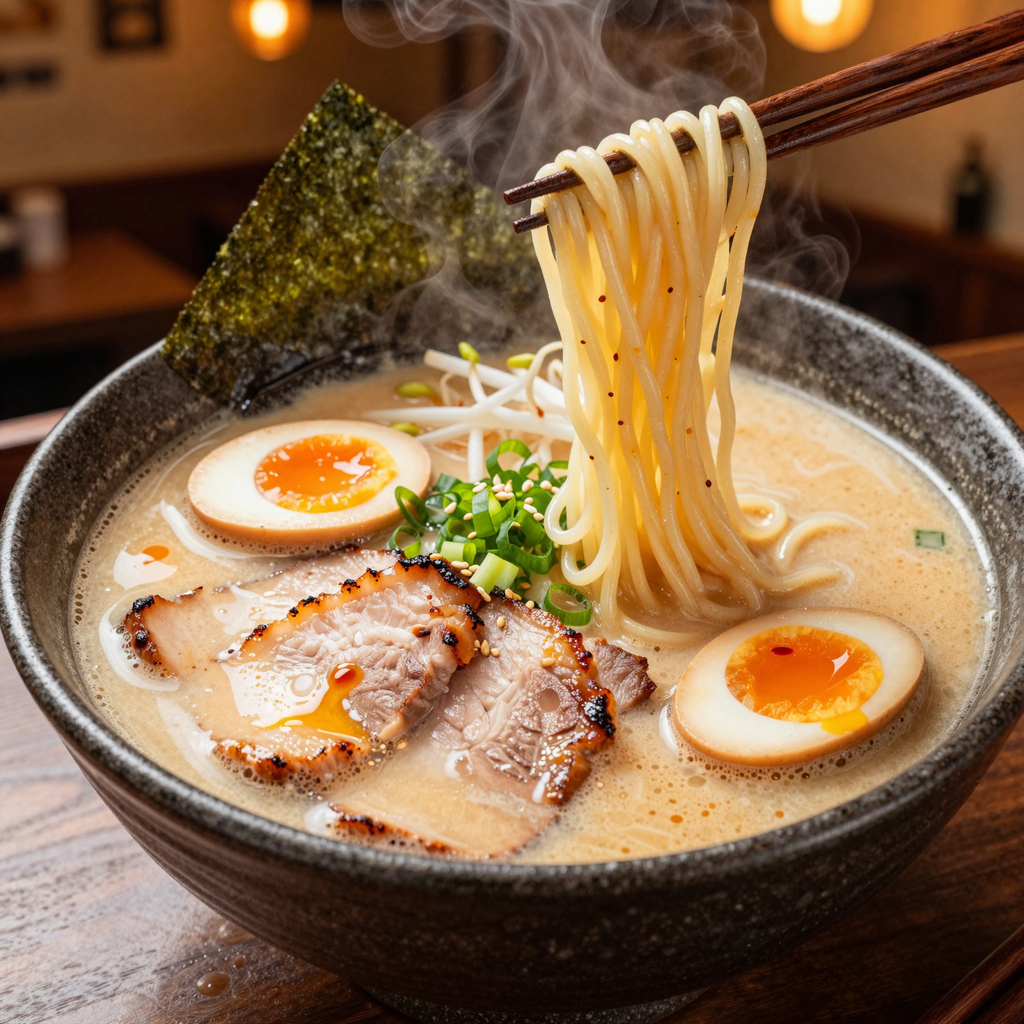
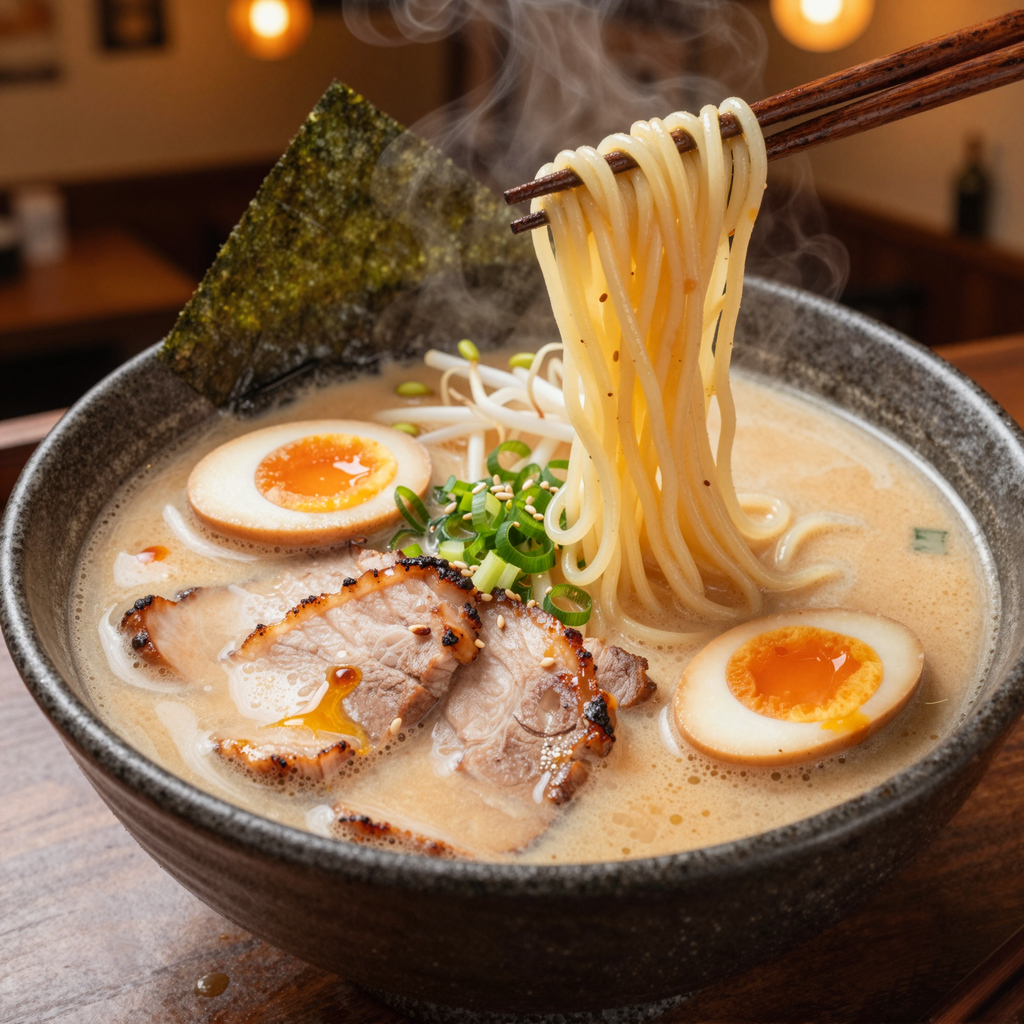
v8: v7's ramen through a 2048 px Z-Image hi-res detail pass (img2img 0.3), cropped, downsampled

diff --git a/render/hires_zimage.py b/render/hires_zimage.py
@@ -1,0 +1,74 @@
+"""Hi-res detail pass: upscale a chosen Z-Image candidate to 2048 px and re-denoise it lightly with Z-Image-Turbo
+img2img, so fine texture (noodle strands, fat, sesame, steam) is re-drawn at a higher resolution; finish.py then
+downsamples it to 1024. The judge kept docking "slightly uniform, plasticky" surfaces.
+
+    python render/hires_zimage.py --base <Z-Image-Turbo folder> --gguf <q8 gguf> --dish ramen4 --style izakaya
+                                  --strength 0.3 --seed 1 in.png out.png
+"""
+import argparse
+import gc
+
+import torch
+from accelerate import cpu_offload
+from diffusers import GGUFQuantizationConfig, ZImageImg2ImgPipeline, ZImageTransformer2DModel
+from PIL import Image
+
+from prompts import DISHES, STYLES
+
+
+def main() -> None:
+    ap = argparse.ArgumentParser()
+    ap.add_argument("--base", required=True)
+    ap.add_argument("--gguf", required=True)
+    ap.add_argument("--dish", required=True)
+    ap.add_argument("--style", default="izakaya", choices=sorted(STYLES))
+    ap.add_argument("--strength", type=float, default=0.3)
+    ap.add_argument("--steps", type=int, default=9)
+    ap.add_argument("--size", type=int, default=2048)
+    ap.add_argument("--seed", type=int, default=1)
+    ap.add_argument("src")
+    ap.add_argument("dst")
+    args = ap.parse_args()
+
+    pipe = ZImageImg2ImgPipeline.from_pretrained(args.base, transformer=None, torch_dtype=torch.bfloat16)
+    cpu_offload(pipe.text_encoder, execution_device=torch.device("cuda"))
+    with torch.no_grad():
+        pe, _ = pipe.encode_prompt(
+            prompt=f"{DISHES[args.dish]} {STYLES[args.style]}", device="cuda", do_classifier_free_guidance=False
+        )
+    pe = [e.cpu() for e in pe]
+    pipe.text_encoder = None
+    gc.collect()
+    torch.cuda.empty_cache()
+
+    pipe.transformer = ZImageTransformer2DModel.from_single_file(
+        args.gguf,
+        quantization_config=GGUFQuantizationConfig(compute_dtype=torch.bfloat16),
+        config=args.base,
+        subfolder="transformer",
+        torch_dtype=torch.bfloat16,
+    )
+    pipe.transformer.enable_group_offload(
+        onload_device=torch.device("cuda"), offload_device=torch.device("cpu"),
+        offload_type="block_level", num_blocks_per_group=4, use_stream=True, low_cpu_mem_usage=True,
+    )
+    pipe.vae.to("cuda")
+    pipe.vae.enable_tiling()
+
+    image = Image.open(args.src).convert("RGB").resize((args.size, args.size), Image.LANCZOS)
+    out = pipe(
+        prompt_embeds=[e.to("cuda") for e in pe],
+        image=image,
+        strength=args.strength,
+        width=args.size,
+        height=args.size,
+        num_inference_steps=args.steps,
+        guidance_scale=0.0,
+        generator=torch.Generator("cuda").manual_seed(args.seed),
+    ).images[0]
+    out.save(args.dst)
+    print("wrote", args.dst, flush=True)
+
+
+if __name__ == "__main__":
+    main()

diff --git a/render/prompts.py b/render/prompts.py
@@ -110,6 +110,17 @@ DISHES = {
         "of nori stands at the back, with sliced green scallions, sesame seeds and bean sprouts. Real wisps of "
         "steam rise from the hot broth."
     ),
+    # v7 (ramen3) lost its one game for "lifted noodles look slightly uniform and plasticky".
+    "ramen4": (
+        "A steaming bowl of rich tonkotsu ramen in a dark speckled stoneware bowl that fills the frame. The broth "
+        "is creamy, opaque and golden with glistening droplets of fat and a few small drops of red chili oil. A "
+        "pair of wooden chopsticks enters from the top right corner, held out of frame with no hand visible, and "
+        "lifts springy, wavy, golden-yellow alkaline noodles high out of the broth, each strand distinct and "
+        "glistening, broth dripping from them. Torched chashu pork belly slices with caramelised edges and soft "
+        "translucent fat are fanned on one side, two halves of a soy-marinated egg show jammy orange yolks, a "
+        "sheet of nori stands at the back, with sliced green scallions and sesame seeds. Real wisps of steam rise "
+        "from the hot broth."
+    ),
     "lava2": (
         "A warm chocolate lava cake on a matte dark plate, a spoon has just broken it open so thick glossy molten "
         "chocolate pours out and pools on the plate. A scoop of vanilla bean ice cream with visible vanilla "
